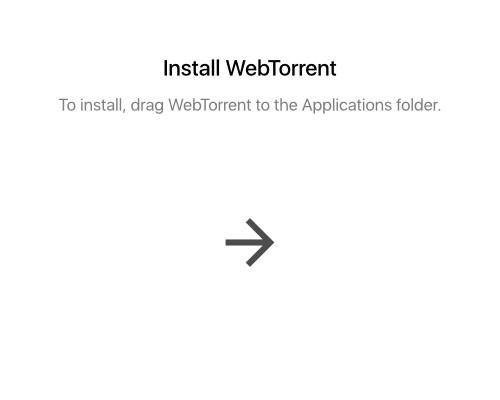
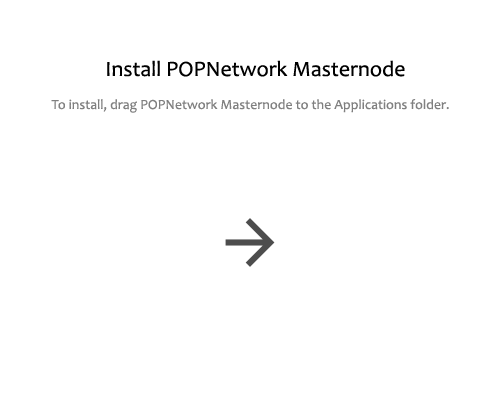
change static image

Changed region(s): [[0.09, 0.24, 0.9, 0.3], [0.21, 0.15, 0.81, 0.21]]

diff --git a/src/main/handlers.js b/src/main/handlers.js
@@ -70,7 +70,7 @@ function installWin32() {
     )
     registerFileHandlerWin32(
         '.torrent',
-        'io.webtorrent.torrent',
+        'io.popnetwork.torrent',
         'BitTorrent Document',
         iconPath,
         EXEC_COMMAND
@@ -207,7 +207,7 @@ function uninstallWin32() {
 
     unregisterProtocolHandlerWin32('magnet', EXEC_COMMAND)
     unregisterProtocolHandlerWin32('stream-magnet', EXEC_COMMAND)
-    unregisterFileHandlerWin32('.torrent', 'io.webtorrent.torrent', EXEC_COMMAND)
+    unregisterFileHandlerWin32('.torrent', 'io.popnetwork.torrent', EXEC_COMMAND)
 
     function unregisterProtocolHandlerWin32(protocol, command) {
         getCommand()
